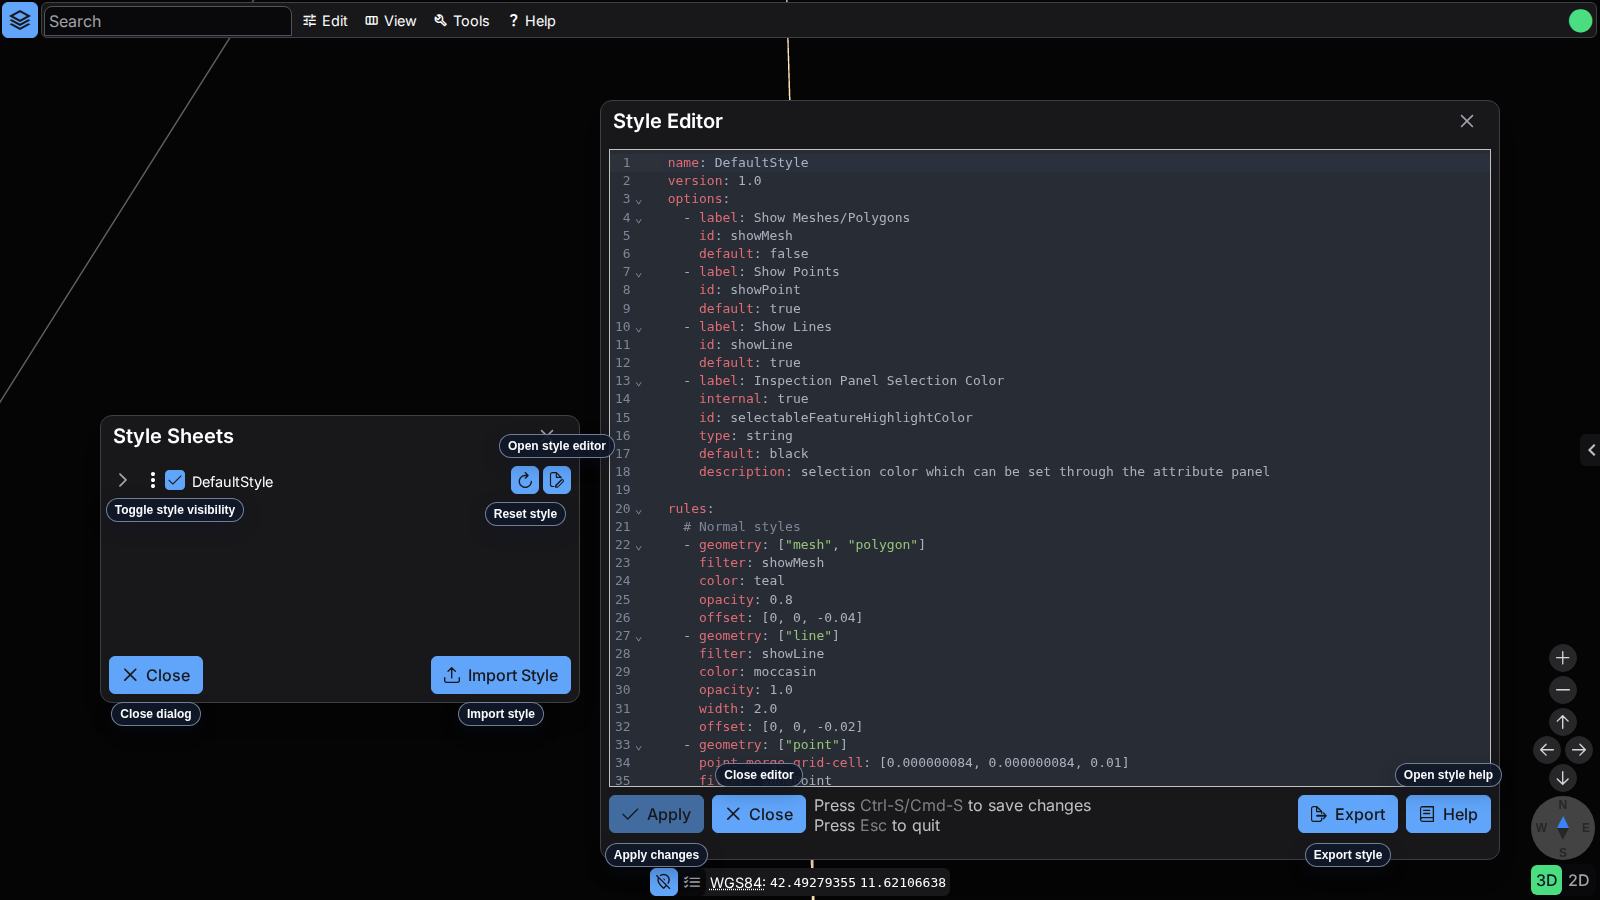
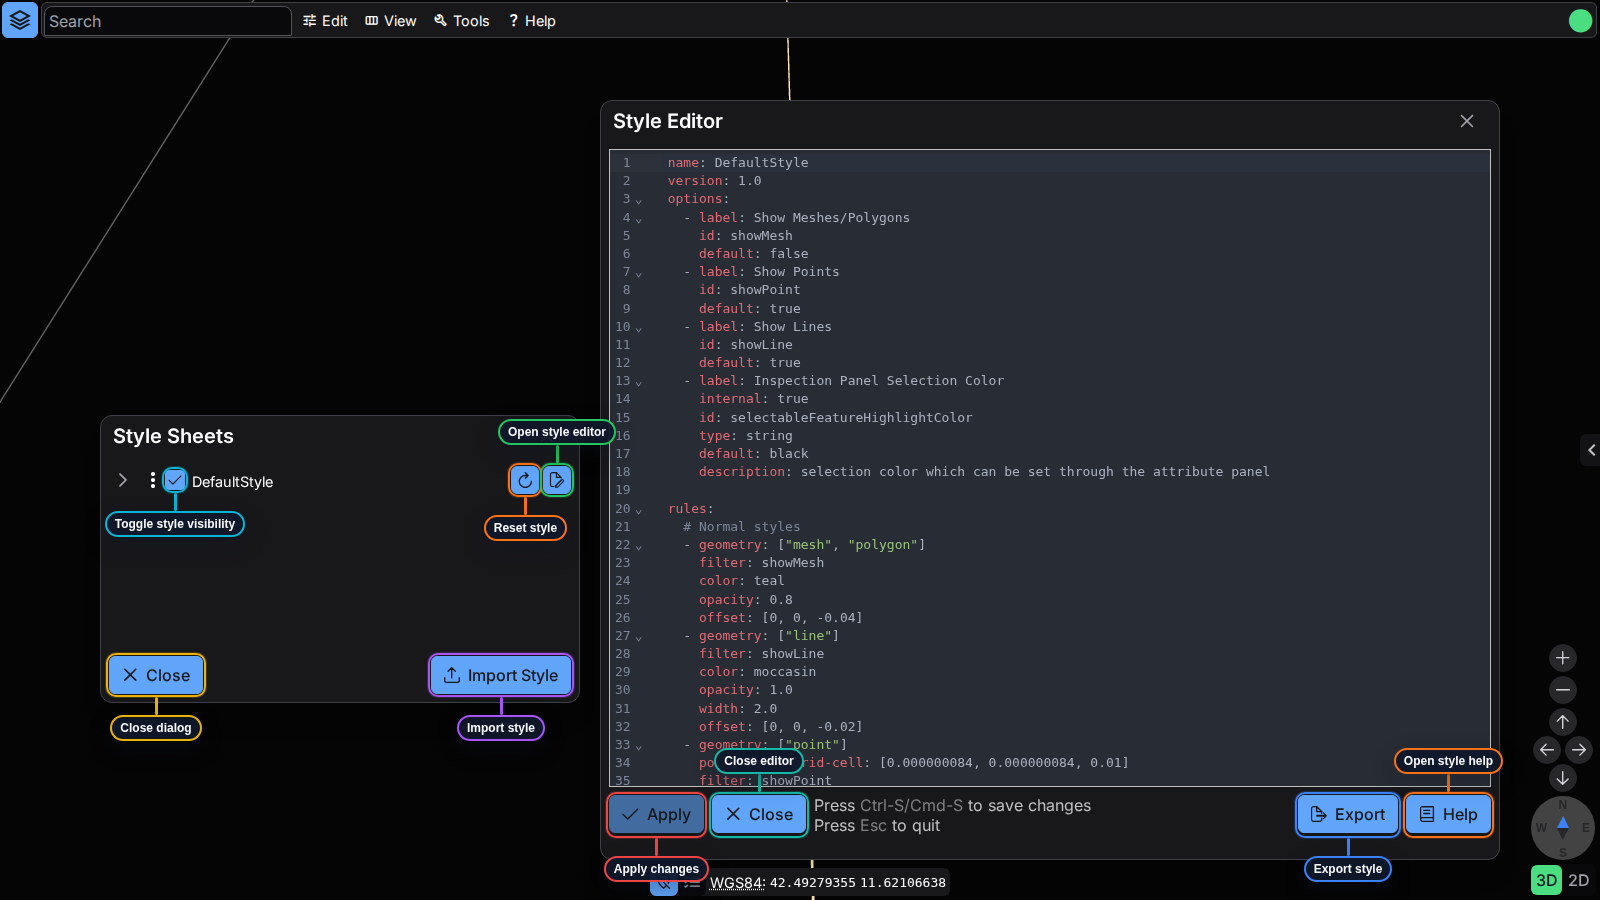
Improve screenshot control labels

diff --git a/playwright/utils/ui-helpers.ts b/playwright/utils/ui-helpers.ts
@@ -337,9 +337,14 @@ export async function getCameraPosition(page: Page, viewIndex: number): Promise<
     }
 }
 
+export type DocsScreenshotLabelPlacement = 'auto' | 'top' | 'bottom' | 'left' | 'right';
+
 export type DocsScreenshotLabel = {
     locator: Locator;
     label: string;
+    color?: string;
+    placement?: DocsScreenshotLabelPlacement;
+    outlinePadding?: number;
 };
 
 export async function captureDocsScreenshotWithLabels(
@@ -347,7 +352,16 @@ export async function captureDocsScreenshotWithLabels(
     screenshotPath: string,
     labels: DocsScreenshotLabel[]
 ): Promise<void> {
-    const labelBoxes: Array<{ label: string; x: number; y: number; width: number; height: number }> = [];
+    const labelBoxes: Array<{
+        label: string;
+        x: number;
+        y: number;
+        width: number;
+        height: number;
+        color?: string;
+        placement: DocsScreenshotLabelPlacement;
+        outlinePadding: number;
+    }> = [];
 
     for (const entry of labels) {
         await expect(entry.locator).toBeVisible();
@@ -360,7 +374,10 @@ export async function captureDocsScreenshotWithLabels(
             x: box.x,
             y: box.y,
             width: box.width,
-            height: box.height
+            height: box.height,
+            color: entry.color,
+            placement: entry.placement ?? 'auto',
+            outlinePadding: entry.outlinePadding ?? 3
         });
     }
 
@@ -375,83 +392,181 @@ export async function captureDocsScreenshotWithLabels(
         root.style.zIndex = '2147483647';
         document.body.appendChild(root);
 
-        const gap = 8;
-        const padding = 8;
+        const palette = ['#f97316', '#22c55e', '#06b6d4', '#eab308', '#a855f7', '#ef4444', '#14b8a6', '#3b82f6'];
+        const labelGap = 18;
+        const padding = 12;
+        const connectorThickness = 3;
         const viewportWidth = window.innerWidth;
         const viewportHeight = window.innerHeight;
+        const placedLabelRects: Array<{ left: number; top: number; right: number; bottom: number }> = [];
+        const placedOutlineRects: Array<{ left: number; top: number; right: number; bottom: number }> = [];
 
-        const measuredEntries = entries.map((entry) => {
+        const clamp = (value: number, min: number, max: number) => Math.min(Math.max(value, min), max);
+        const inflateRect = (rect: { left: number; top: number; right: number; bottom: number }, amount: number) => ({
+            left: rect.left - amount,
+            top: rect.top - amount,
+            right: rect.right + amount,
+            bottom: rect.bottom + amount
+        });
+        const intersects = (
+            a: { left: number; top: number; right: number; bottom: number },
+            b: { left: number; top: number; right: number; bottom: number }
+        ) => a.left < b.right && a.right > b.left && a.top < b.bottom && a.bottom > b.top;
+        const overlapPenalty = (
+            rect: { left: number; top: number; right: number; bottom: number },
+            others: Array<{ left: number; top: number; right: number; bottom: number }>,
+            margin: number,
+            weight: number
+        ) => others.reduce((sum, other) => sum + (intersects(inflateRect(rect, margin), inflateRect(other, margin)) ? weight : 0), 0);
+        const overflowPenalty = (rect: { left: number; top: number; right: number; bottom: number }) => {
+            const left = Math.max(0, padding - rect.left);
+            const top = Math.max(0, padding - rect.top);
+            const right = Math.max(0, rect.right - (viewportWidth - padding));
+            const bottom = Math.max(0, rect.bottom - (viewportHeight - padding));
+            return left + top + right + bottom;
+        };
+
+        type Side = 'top' | 'bottom' | 'left' | 'right';
+        type Rect = { left: number; top: number; right: number; bottom: number };
+        type Candidate = { side: Side; rect: Rect; score: number; color: string; outlineRect: Rect; targetRect: Rect };
+
+        const buildCandidate = (
+            side: Side,
+            targetRect: Rect,
+            outlineRect: Rect,
+            labelWidth: number,
+            labelHeight: number,
+            color: string,
+            preferenceBias: number
+        ): Candidate => {
+            const [left, top] = side === 'top' || side === 'bottom'
+                ? [
+                    clamp((targetRect.left + targetRect.right - labelWidth) / 2, padding, viewportWidth - padding - labelWidth),
+                    side === 'top' ? outlineRect.top - labelGap - labelHeight : outlineRect.bottom + labelGap
+                ]
+                : [
+                    side === 'left' ? outlineRect.left - labelGap - labelWidth : outlineRect.right + labelGap,
+                    clamp((targetRect.top + targetRect.bottom - labelHeight) / 2, padding, viewportHeight - padding - labelHeight)
+                ];
+
+            const rect = {
+                left,
+                top,
+                right: left + labelWidth,
+                bottom: top + labelHeight
+            };
+
+            const axisOverlap = side === 'top' || side === 'bottom'
+                ? Math.min(rect.right, outlineRect.right) - Math.max(rect.left, outlineRect.left)
+                : Math.min(rect.bottom, outlineRect.bottom) - Math.max(rect.top, outlineRect.top);
+            const score =
+                overflowPenalty(rect) * 1000 +
+                (intersects(rect, inflateRect(outlineRect, 2)) ? 100000 : 0) +
+                (axisOverlap <= 0 ? 100000 : 0) +
+                overlapPenalty(rect, placedLabelRects, 12, 5000) +
+                overlapPenalty(rect, placedOutlineRects, 8, 2000) +
+                preferenceBias;
+
+            return { side, rect, score, color, outlineRect, targetRect };
+        };
+
+        const sortedEntries = entries.slice().sort((a, b) => {
+            if (a.y !== b.y) {
+                return a.y - b.y;
+            }
+            return a.x - b.x;
+        });
+
+        sortedEntries.forEach((entry, index) => {
             const label = document.createElement('div');
+            const color = entry.color || palette[index % palette.length];
             label.textContent = entry.label;
             label.style.position = 'fixed';
             label.style.pointerEvents = 'none';
             label.style.zIndex = '2147483647';
             label.style.padding = '4px 8px';
             label.style.borderRadius = '999px';
-            label.style.background = 'rgba(16, 24, 40, 0.92)';
+            label.style.background = 'rgba(15, 23, 42, 0.94)';
             label.style.color = '#f8fafc';
-            label.style.border = '1px solid rgba(148, 163, 184, 0.75)';
+            label.style.border = `2px solid ${color}`;
             label.style.font = '600 12px/1.2 sans-serif';
             label.style.whiteSpace = 'nowrap';
-            label.style.boxShadow = '0 6px 18px rgba(15, 23, 42, 0.28)';
+            label.style.boxShadow = '0 8px 22px rgba(15, 23, 42, 0.28)';
             label.style.left = '-9999px';
             label.style.top = '-9999px';
-
             root.appendChild(label);
 
-            const rect = label.getBoundingClientRect();
-            const maxLeft = Math.max(padding, viewportWidth - padding - rect.width);
-            const centeredLeft = entry.x + (entry.width / 2) - (rect.width / 2);
-            const left = Math.min(Math.max(centeredLeft, padding), maxLeft);
-
-            return {
-                entry,
-                label,
-                left,
-                right: left + rect.width,
-                labelHeight: rect.height,
-                placeBelow: true
+            const measuredRect = label.getBoundingClientRect();
+            const targetRect = {
+                left: entry.x,
+                top: entry.y,
+                right: entry.x + entry.width,
+                bottom: entry.y + entry.height
             };
-        });
+            const outlineRect = inflateRect(targetRect, entry.outlinePadding);
+            const candidateOrder: Side[] = entry.placement === 'auto'
+                ? ['bottom', 'top', 'right', 'left']
+                : [entry.placement];
+            const candidates = candidateOrder.map((side, candidateIndex) => buildCandidate(
+                side,
+                targetRect,
+                outlineRect,
+                measuredRect.width,
+                measuredRect.height,
+                color,
+                candidateIndex
+            ));
+            const chosen = candidates.reduce((best, current) => current.score < best.score ? current : best);
 
-        measuredEntries.sort((a, b) => {
-            if (a.entry.y !== b.entry.y) {
-                return a.entry.y - b.entry.y;
+            const outline = document.createElement('div');
+            outline.style.position = 'fixed';
+            outline.style.pointerEvents = 'none';
+            outline.style.zIndex = '2147483646';
+            outline.style.left = `${outlineRect.left}px`;
+            outline.style.top = `${outlineRect.top}px`;
+            outline.style.width = `${outlineRect.right - outlineRect.left}px`;
+            outline.style.height = `${outlineRect.bottom - outlineRect.top}px`;
+            outline.style.border = `2px solid ${color}`;
+            outline.style.borderRadius = '10px';
+            outline.style.boxShadow = `0 0 0 1px ${color}33`;
+            root.appendChild(outline);
+
+            label.style.left = `${chosen.rect.left}px`;
+            label.style.top = `${chosen.rect.top}px`;
+
+            const connector = document.createElement('div');
+            connector.style.position = 'fixed';
+            connector.style.pointerEvents = 'none';
+            connector.style.zIndex = '2147483645';
+            connector.style.background = color;
+            connector.style.borderRadius = `${connectorThickness}px`;
+
+            if (chosen.side === 'top' || chosen.side === 'bottom') {
+                const overlapLeft = Math.max(chosen.rect.left, outlineRect.left);
+                const overlapRight = Math.min(chosen.rect.right, outlineRect.right);
+                const x = Math.round((overlapLeft + overlapRight) / 2 - connectorThickness / 2);
+                const top = chosen.side === 'top' ? chosen.rect.bottom : outlineRect.bottom;
+                const bottom = chosen.side === 'top' ? outlineRect.top : chosen.rect.top;
+                connector.style.left = `${x}px`;
+                connector.style.top = `${top}px`;
+                connector.style.width = `${connectorThickness}px`;
+                connector.style.height = `${Math.max(0, bottom - top)}px`;
+            } else {
+                const overlapTop = Math.max(chosen.rect.top, outlineRect.top);
+                const overlapBottom = Math.min(chosen.rect.bottom, outlineRect.bottom);
+                const y = Math.round((overlapTop + overlapBottom) / 2 - connectorThickness / 2);
+                const left = chosen.side === 'left' ? chosen.rect.right : outlineRect.right;
+                const right = chosen.side === 'left' ? outlineRect.left : chosen.rect.left;
+                connector.style.left = `${left}px`;
+                connector.style.top = `${y}px`;
+                connector.style.width = `${Math.max(0, right - left)}px`;
+                connector.style.height = `${connectorThickness}px`;
             }
-            return a.entry.x - b.entry.x;
+            root.appendChild(connector);
+
+            placedLabelRects.push(chosen.rect);
+            placedOutlineRects.push(outlineRect);
         });
-
-        for (let i = 0; i < measuredEntries.length; i++) {
-            const current = measuredEntries[i];
-            const previous = i > 0 ? measuredEntries[i - 1] : null;
-
-            if (previous) {
-                const verticalDistance = Math.abs(current.entry.y - previous.entry.y);
-                const maxElementHeight = Math.max(current.entry.height, previous.entry.height);
-                const verticalThreshold = maxElementHeight + gap;
-                const labelsOverlapOrClose =
-                    current.left <= previous.right + gap &&
-                    current.right >= previous.left - gap;
-                const currentCenterX = current.entry.x + (current.entry.width / 2);
-                const previousCenterX = previous.entry.x + (previous.entry.width / 2);
-                const xDistance = Math.abs(currentCenterX - previousCenterX);
-                const xNear = xDistance <= maxElementHeight;
-                const sameCollisionBand =
-                    verticalDistance <= verticalThreshold &&
-                    (labelsOverlapOrClose || xNear);
-
-                current.placeBelow = sameCollisionBand ? !previous.placeBelow : true;
-            }
-
-            const preferredTop = current.placeBelow
-                ? current.entry.y + current.entry.height + gap
-                : current.entry.y - gap - current.labelHeight;
-            const maxTop = Math.max(padding, viewportHeight - padding - current.labelHeight);
-            const top = Math.min(Math.max(preferredTop, padding), maxTop);
-
-            current.label.style.left = `${current.left}px`;
-            current.label.style.top = `${top}px`;
-        }
     }, labelBoxes);
 
     const browserName = page.context().browser()?.browserType().name();